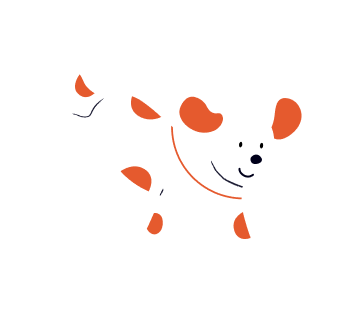
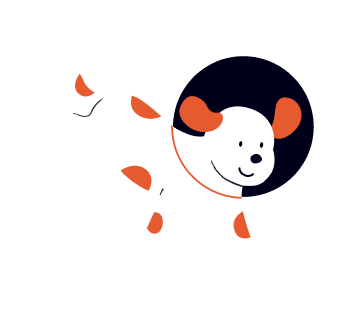
배경 구현

diff --git a/styles/index.css b/styles/index.css
@@ -4,9 +4,9 @@
 header {
   position: relative;
   color: white;
-  /* background-image: url("../images/index/stars.png");
+  background-image: url("../images/index/stars.png");
   background-size: cover;
-  background-repeat: no-repeat; */
+  background-position: top;
   padding-bottom: 6rem;
 }
 
@@ -80,6 +80,7 @@ header .text-area .description p {
   }
   header .text-area {
     margin: 20rem 0 0 1.5rem;
+    padding : 0 0 1.5rem 0;
     z-index: 1;
   }
   header .text-area .sub-title {
